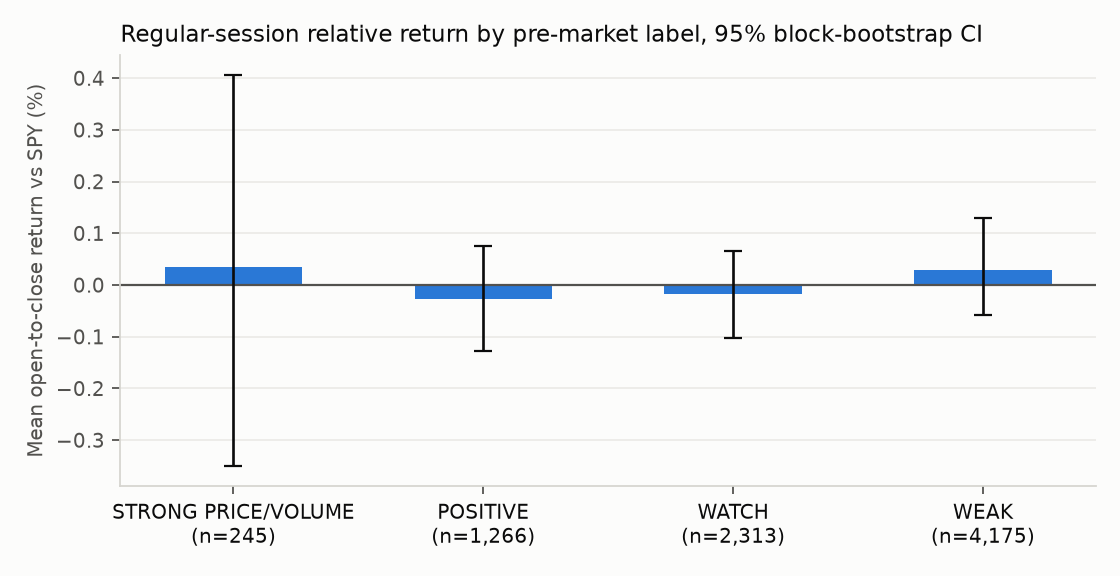
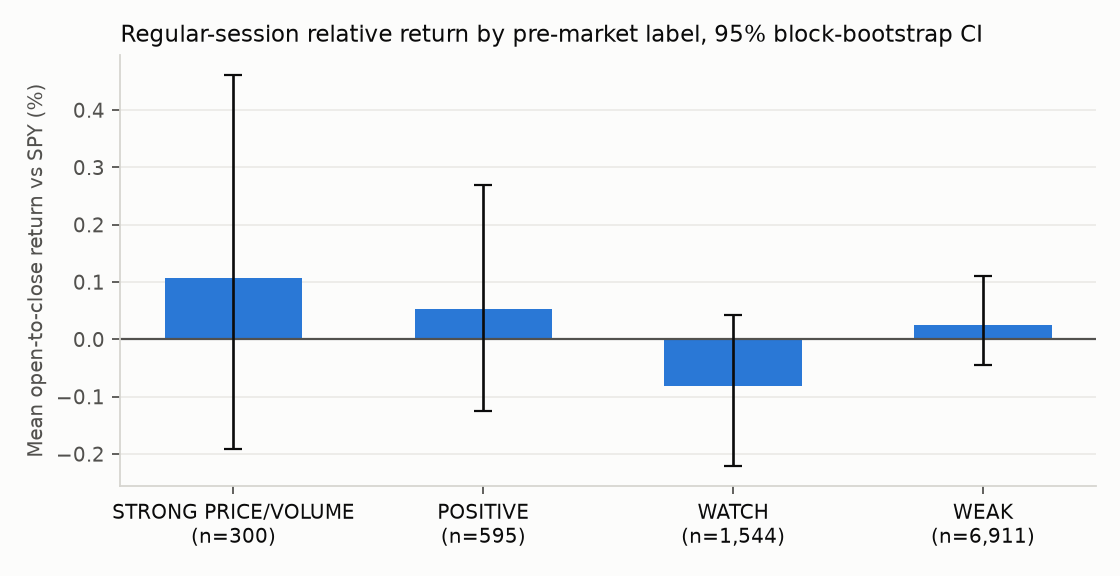
Signal evaluation for 2026-11-06

diff --git a/docs/premarket_evaluation.md b/docs/premarket_evaluation.md
@@ -7,24 +7,24 @@ close, relative to SPY over the same hours?**
 
 ## Summary
 
-*Last evaluated 2026-11-06 on 7,999 ticker-days (2023-12-27 to 2026-11-06), pre-market bars through 08:30 ET, data: yahoo.*
+*Last evaluated 2026-11-06 on 9,350 ticker-days (2023-11-07 to 2026-11-05), pre-market bars through 08:30 ET, data: alpaca-sip.*
 
 | Metric | Estimate | 95% CI |
 |---|---:|---:|
-| Rank IC: pre-market score vs open-to-close return over SPY | -0.019 | [-0.052, +0.010] |
-| Mean return gap: POSITIVE-or-better minus WEAK | -0.05% | [-0.23%, +0.12%] |
-| Rank IC: gap vs SPY alone (negative = gaps fade) | -0.006 | |
+| Rank IC: pre-market score vs open-to-close return over SPY | -0.022 | [-0.051, +0.002] |
+| Mean return gap: POSITIVE-or-better minus WEAK | +0.05% | [-0.16%, +0.26%] |
+| Rank IC: gap vs SPY alone (negative = gaps fade) | -0.015 | |
 
 The 95% interval includes zero, so the data do not show that the pre-market score predicts the regular session. It describes the pre-market well; it is not a forecast.
 
 
 ## Setup
 
-- **Universe:** AMD, AMZN, CEG, ETN, FSLR, GOOG, IBM, MRVL, NVDA, SKHY, SPCX, TSLA, VST; benchmark SPY.
-- **Sample:** 716 trading days, 7,999 ticker-days with a full pre-market score.
+- **Universe:** ALAB, AMD, AMZN, CEG, ETN, FSLR, GEV, GOOG, IBM, MRVL, NVDA, SKHY, SPCX, TSLA, VST; benchmark SPY.
+- **Sample:** 752 trading days, 9,350 ticker-days with a full pre-market score.
   0 ticker-days with a gap larger than 40% were dropped as
   likely data errors or corporate actions.
-- **Data:** Yahoo Finance hourly bars over about two years. Yahoo reports no extended-hours volume, so the volume component is not scored here.
+- **Data:** Alpaca SIP feed (trades from every U.S. exchange), 30-minute bars over about 3 years, split-adjusted. Includes pre-market volume.
 - **Snapshot time:** pre-market bars that closed by 08:30 ET, the same
   snapshot the [daily pre-market page](premarket.md) shows.
 - **Target:** open-to-close return minus SPY's open-to-close return. It begins after every input is
@@ -38,21 +38,21 @@ The 95% interval includes zero, so the data do not show that the pre-market scor
 
 | label | n | mean | ci_lo | ci_hi | median | hit_rate |
 |---|---:|---:|---:|---:|---:|---:|
-| STRONG PRICE/VOLUME | 245 | +0.03% | -0.35% | +0.41% | +0.07% | 51.0% |
-| POSITIVE | 1,266 | -0.03% | -0.13% | +0.08% | -0.03% | 49.1% |
-| WATCH | 2,313 | -0.02% | -0.10% | +0.07% | -0.03% | 48.7% |
-| WEAK | 4,175 | +0.03% | -0.06% | +0.13% | -0.00% | 50.0% |
+| STRONG PRICE/VOLUME | 300 | +0.11% | -0.19% | +0.46% | -0.06% | 48.7% |
+| POSITIVE | 595 | +0.05% | -0.13% | +0.27% | +0.05% | 51.3% |
+| WATCH | 1,544 | -0.08% | -0.22% | +0.04% | -0.04% | 48.8% |
+| WEAK | 6,911 | +0.03% | -0.04% | +0.11% | -0.01% | 49.7% |
 
 ## Baselines
 
 | signal | ic |
 |---|---:|
-| Pre-market score (this model) | -0.019 |
-| Gap vs SPY only | -0.006 |
-| Gap / ATR only | -0.006 |
-| Pre-market RVOL only | n/a |
-| Prior close end-of-day score only | -0.025 |
-| Shuffled score (null) | +0.013 |
+| Pre-market score (this model) | -0.022 |
+| Gap vs SPY only | -0.015 |
+| Gap / ATR only | -0.014 |
+| Pre-market RVOL only | +0.007 |
+| Prior close end-of-day score only | -0.022 |
+| Shuffled score (null) | -0.013 |
 
 The gap rows answer a classic market-microstructure question directly: a negative IC means
 pre-market moves have tended to reverse after the open (gap fade); a positive IC means they
@@ -62,10 +62,10 @@ have tended to extend (gap continuation).
 
 | removed | ic | change |
 |---|---:|---:|
-| gap | -0.017 | +0.002 |
-| volume | -0.019 | +0.000 |
-| level | -0.027 | -0.008 |
-| context | -0.008 | +0.011 |
+| gap | -0.018 | +0.004 |
+| volume | -0.018 | +0.004 |
+| level | -0.027 | -0.005 |
+| context | -0.017 | +0.005 |
 
 A negative *change* means removing the component lowers the IC, i.e. it was contributing.
 
@@ -73,19 +73,21 @@ A negative *change* means removing the component lowers the IC, i.e. it was cont
 
 | ticker | n | ic | mean_gap_abs |
 |---|---:|---:|---:|
-| AMD | 714 | +0.015 | 1.45% |
-| AMZN | 714 | -0.061 | 0.74% |
-| CEG | 712 | -0.020 | 0.95% |
-| ETN | 715 | -0.057 | 0.81% |
-| FSLR | 713 | -0.046 | 1.02% |
-| GOOG | 714 | -0.033 | 0.74% |
-| IBM | 716 | +0.006 | 0.62% |
-| MRVL | 714 | -0.039 | 1.68% |
-| NVDA | 714 | -0.038 | 1.11% |
-| SKHY | 64 | +0.117 | 2.76% |
-| SPCX | 82 | -0.016 | 1.55% |
-| TSLA | 714 | -0.054 | 1.21% |
-| VST | 713 | -0.006 | 1.16% |
+| ALAB | 641 | -0.008 | 2.03% |
+| AMD | 752 | +0.015 | 1.50% |
+| AMZN | 752 | -0.018 | 0.80% |
+| CEG | 676 | -0.015 | 1.08% |
+| ETN | 555 | -0.071 | 1.05% |
+| FSLR | 741 | -0.046 | 1.09% |
+| GEV | 629 | -0.082 | 1.21% |
+| GOOG | 752 | -0.027 | 0.78% |
+| IBM | 737 | -0.000 | 0.64% |
+| MRVL | 752 | -0.045 | 1.77% |
+| NVDA | 752 | -0.063 | 1.15% |
+| SKHY | 70 | +0.038 | 2.89% |
+| SPCX | 88 | +0.063 | 1.43% |
+| TSLA | 752 | -0.024 | 1.26% |
+| VST | 701 | -0.023 | 1.29% |
 
 ## Limitations
 
@@ -93,4 +95,4 @@ A negative *change* means removing the component lowers the IC, i.e. it was cont
 - Intraday prices are not dividend-adjusted; on ex-dividend days the measured gap includes the
   dividend. The effect is small for this universe.
 - Open-to-close returns ignore the cost of trading at the open, when spreads are widest.
-- 13 correlated stocks; several comparisons on the same data. Not investment advice.
+- 15 correlated stocks; several comparisons on the same data. Not investment advice.

diff --git a/README.md b/README.md
@@ -27,7 +27,7 @@
 - **End-of-day signal: no evidence of predictive power.** The rank IC between the score and the next 5 days' return over SPY is +0.001 (95% CI -0.042 to +0.039) across 14,875 stock-days; a randomly shuffled score gets +0.000.
 <!-- FINDINGS-EOD:END -->
 <!-- FINDINGS-PM:START -->
-- **Pre-market signal: no evidence of predictive power.** The rank IC between the 08:30 ET pre-market score and the same day's open-to-close return over SPY is -0.019 (95% CI -0.052 to +0.010) across 7,999 stock-days; a randomly shuffled score gets +0.013. On their own, the pre-market gap has an IC of -0.006 (negative would mean gaps fade).
+- **Pre-market signal: no evidence of predictive power.** The rank IC between the 08:30 ET pre-market score and the same day's open-to-close return over SPY is -0.022 (95% CI -0.051 to +0.002) across 9,350 stock-days; a randomly shuffled score gets -0.013. On their own, the pre-market gap has an IC of -0.015 (negative would mean gaps fade) and pre-market volume +0.007.
 <!-- FINDINGS-PM:END -->
 - **How it was tested:** a common trading belief, that moves confirmed by volume keep going, is
   turned into a transparent score and tested on end-of-day and pre-market data with
@@ -85,13 +85,13 @@ Full write-up: [docs/evaluation.md](docs/evaluation.md)
 ### Pre-market score → same-day open-to-close
 
 <!-- PREMARKET-EVAL:START -->
-*Last evaluated 2026-11-06 on 7,999 ticker-days (2023-12-27 to 2026-11-06), pre-market bars through 08:30 ET, data: yahoo.*
+*Last evaluated 2026-11-06 on 9,350 ticker-days (2023-11-07 to 2026-11-05), pre-market bars through 08:30 ET, data: alpaca-sip.*
 
 | Metric | Estimate | 95% CI |
 |---|---:|---:|
-| Rank IC: pre-market score vs open-to-close return over SPY | -0.019 | [-0.052, +0.010] |
-| Mean return gap: POSITIVE-or-better minus WEAK | -0.05% | [-0.23%, +0.12%] |
-| Rank IC: gap vs SPY alone (negative = gaps fade) | -0.006 | |
+| Rank IC: pre-market score vs open-to-close return over SPY | -0.022 | [-0.051, +0.002] |
+| Mean return gap: POSITIVE-or-better minus WEAK | +0.05% | [-0.16%, +0.26%] |
+| Rank IC: gap vs SPY alone (negative = gaps fade) | -0.015 | |
 
 The 95% interval includes zero, so the data do not show that the pre-market score predicts the regular session. It describes the pre-market well; it is not a forecast.
 

diff --git a/docs/evaluation.md b/docs/evaluation.md
@@ -64,7 +64,7 @@ By ticker:
 | ALAB | 637 | +0.110 | 2024-04-18 |
 | AMD | 1,230 | +0.032 | 2021-12-07 |
 | AMZN | 1,230 | -0.101 | 2021-12-07 |
-| CEG | 1,171 | +0.013 | 2022-03-03 |
+| CEG | 1,171 | +0.012 | 2022-03-03 |
 | ETN | 1,230 | -0.044 | 2021-12-07 |
 | FSLR | 1,230 | -0.050 | 2021-12-07 |
 | GEV | 629 | -0.011 | 2024-04-30 |
@@ -73,7 +73,7 @@ By ticker:
 | MRVL | 1,230 | -0.038 | 2021-12-07 |
 | NVDA | 1,230 | -0.028 | 2021-12-07 |
 | SKHY | 60 | -0.287 | 2026-08-07 |
-| SPCX | 78 | +0.056 | 2026-07-14 |
+| SPCX | 78 | +0.058 | 2026-07-14 |
 | TSLA | 1,230 | +0.031 | 2021-12-07 |
 | VST | 1,230 | +0.025 | 2021-12-07 |
 
@@ -113,7 +113,7 @@ Out-of-sample period: 2022-12-07 onward, 12,162 ticker-days.
 
 | Model | AUC (target: beats SPY) | Spearman IC |
 |---|---:|---:|
-| Hand-weighted score | 0.497 | -0.009 |
+| Hand-weighted score | 0.497 | -0.008 |
 | Walk-forward logistic regression | 0.505 | -0.008 |
 
 Learning the weights from data does not beat the hand-chosen weights out of sample. With this little data, the simpler fixed-weight model is preferable.
